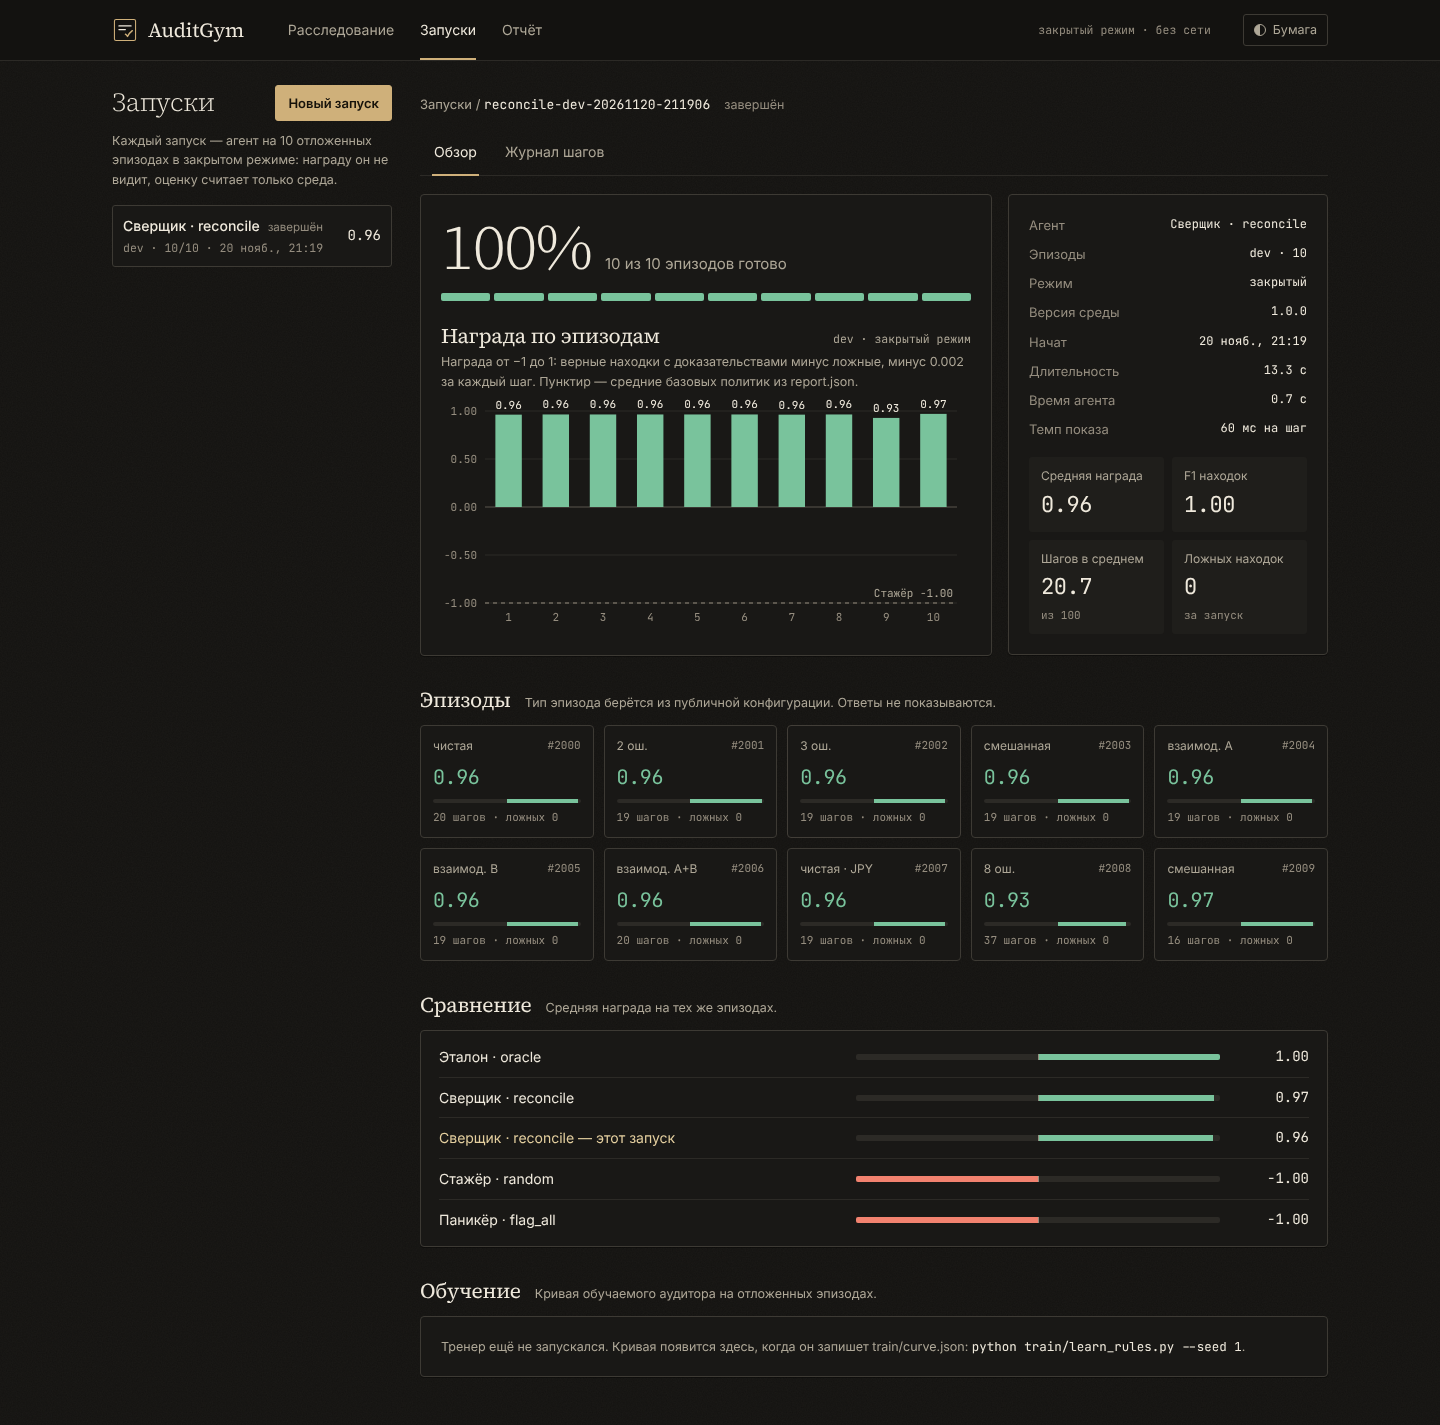
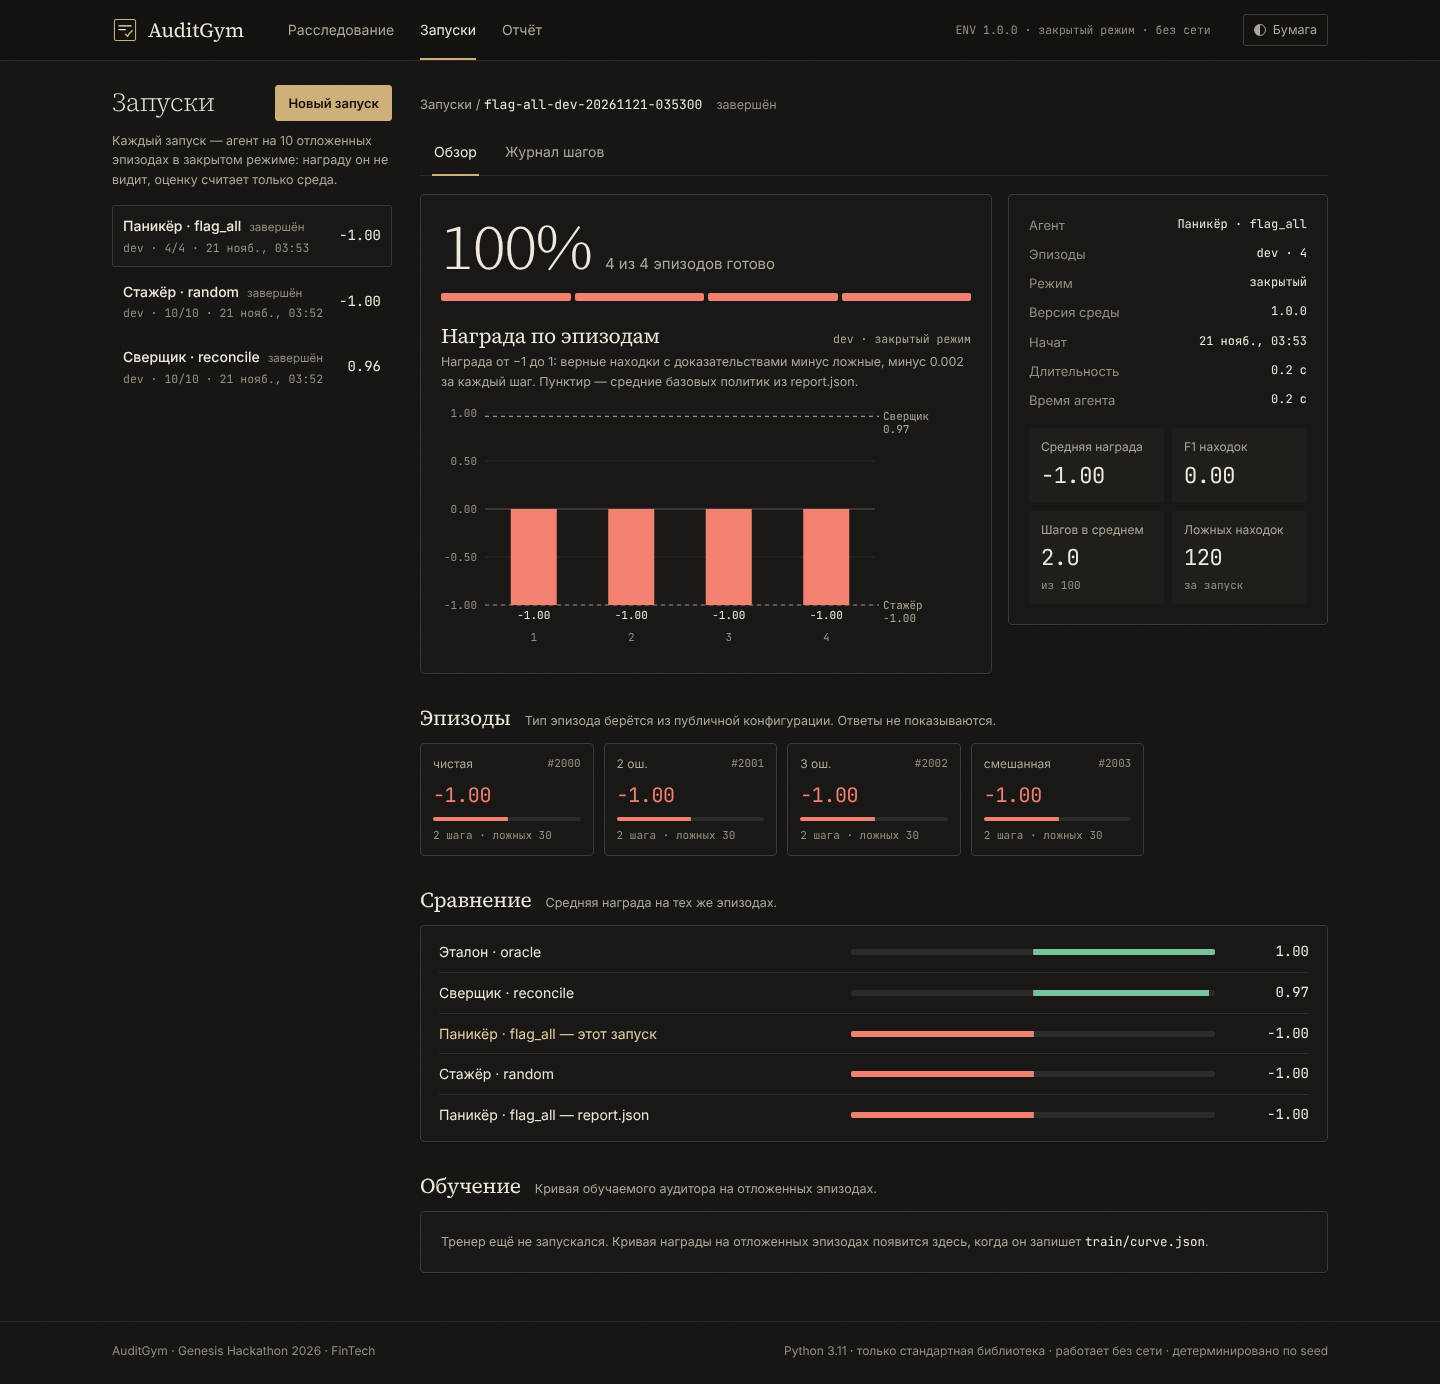
UI polish: runs page chart, comparison, header/footer; home links to Запуски
- Reward chart: reference lines labelled in a right gutter (never over a bar); room under −1 so negative
  values and episode numbers no longer collide.
- Comparison: a built-in policy's own report.json row is marked instead of appearing twice.
- Runs page matches the other pages: same header meta, the site footer, one h1.
- Training slot no longer suggests a command that does not exist yet.
- Episode tiles: zero mark on the −1…1 bar.
- Home «Сводка политик»: link to run any policy or your own agent.

Audit: all three pages, dark and light, 1440 and 390 px: no console errors, no page overflow.

Claude-Session: https://claude.ai/code/session_01RcdgBiJRTbGUBFdvtZ96C7

diff --git a/src/auditgym/ui/static/runs.js b/src/auditgym/ui/static/runs.js
@@ -89,7 +89,7 @@ function render() {
     t.setAttribute("aria-label", `${e.label}, сид ${e.seed}: ${r == null ? "нет оценки" : "награда " + f2(r)}. Открыть журнал`);
     return el("li", {}, t);
   }));
-  const rows = [[agentName(run.agent) + " — этот запуск", done ? s.reward : null, true]].concat(Object.entries(base).map(([k, v]) => [agentName(k), v, false]));
+  const rows = [[agentName(run.agent) + " — этот запуск", done ? s.reward : null, true]].concat(Object.entries(base).map(([k, v]) => [agentName(k) + (k === run.agent ? " — report.json" : ""), v, false]));
   rows.sort((a, b) => (b[1] ?? -9) - (a[1] ?? -9));
   $("d-cmp").replaceChildren(...rows.map(([n, v, me]) => el("tr", { class: me ? "me" : "" }, el("td", {}, n),
     el("td", { class: "bar-c" }, el("span", { class: "zb" }, el("i", { class: v != null && v < 0 ? "neg" : "", style: v == null ? "width:0" : v >= 0 ? `left:50%;width:${v * 50}%` : `left:${50 + v * 50}%;width:${-v * 50}%` }), el("b", {}))),
@@ -105,19 +105,21 @@ function axes(host, W, H, m, ymin, ymax) {
 }
 
 function drawChart(eps) {
-  const host = $("d-chart"), W = Math.max(320, host.clientWidth || 640), H = 230, m = { l: 44, r: 14, t: 12, b: 26 };
+  const host = $("d-chart"), W = Math.max(320, host.clientWidth || 640), H = 248, m = { l: 44, r: W < 480 ? 64 : 96, t: 14, b: 42 };
   const key = run.id + "|" + W + "|" + eps.map((e) => (e.score ? e.score.reward : e.status)).join(",");
   if (key === drawnFor) return;
   drawnFor = key;
   const { s, Y } = axes(host, W, H, m, -1, 1);
   s.setAttribute("aria-label", "Награда по эпизодам: " + eps.map((e) => (e.score ? `${e.label} ${f2(e.score.reward)}` : `${e.label} нет оценки`)).join("; "));
   for (const [k, v] of Object.entries(base)) { if (k === run.agent || !["reconcile", "random"].includes(k)) continue;
-    svg("line", { x1: m.l, x2: W - m.r, y1: Y(v), y2: Y(v), class: "ref" }, s);
-    svg("text", { x: W - m.r - 4, y: Y(v) - 6, "text-anchor": "end", class: "ref-l" }, s).textContent = `${NAMES[k]} ${f2(v)}`; }
+    svg("line", { x1: m.l, x2: W - m.r + 4, y1: Y(v), y2: Y(v), class: "ref" }, s);
+    const lab = svg("text", { x: W - m.r + 8, y: Y(v) + 4, class: "ref-l" }, s);  // in the right gutter, never on a bar
+    lab.append(svg("tspan", { x: W - m.r + 8 }), svg("tspan", { x: W - m.r + 8, dy: 13 }));
+    lab.firstChild.textContent = NAMES[k]; lab.lastChild.textContent = f2(v); }
   const n = Math.max(eps.length, 1), slot = (W - m.l - m.r) / n, bw = Math.min(46, slot * 0.56);
   eps.forEach((e, i) => {
     const x = m.l + slot * i + (slot - bw) / 2;
-    svg("text", { x: x + bw / 2, y: H - 8, "text-anchor": "middle" }, s).textContent = i + 1;
+    svg("text", { x: x + bw / 2, y: H - 6, "text-anchor": "middle" }, s).textContent = i + 1;
     if (!e.score) { if (e.status === "running") svg("rect", { x, y: Y(1), width: bw, height: Y(-1) - Y(1), class: "slot-now" }, s); return; }
     const v = e.score.reward, y0 = Y(0), y1 = Y(v);
     const r = svg("rect", { x, width: bw, y: Math.min(y0, y1), height: Math.max(1, Math.abs(y1 - y0)), class: v >= 0 ? "b-pos" : "b-neg" }, s);
@@ -131,7 +133,7 @@ function drawTraining() {
   const host = $("train-chart");
   host.classList.toggle("hidden", !curve);
   if (!curve || !Array.isArray(curve.points || curve)) {
-    host.replaceChildren(); $("train-note").replaceChildren("Тренер ещё не запускался. Кривая появится здесь, когда он запишет train/curve.json: ", el("code", {}, "python train/learn_rules.py --seed 1"), ".");
+    host.replaceChildren(); $("train-note").replaceChildren("Тренер ещё не запускался. Кривая награды на отложенных эпизодах появится здесь, когда он запишет ", el("code", {}, "train/curve.json"), ".");
     return;
   }
   const pts = (curve.points || curve).map((p) => [p.iteration, p.dev_reward]).filter((p) => p.every(Number.isFinite));

diff --git a/src/auditgym/ui/static/style.css b/src/auditgym/ui/static/style.css
@@ -632,7 +632,7 @@ table.cls td:nth-child(4){white-space:nowrap}
 main.runs{display:grid;grid-template-columns:280px minmax(0,1fr);gap:28px;padding-top:24px;padding-bottom:48px;align-items:start}
 .runs-side{position:sticky;top:84px;display:flex;flex-direction:column;gap:10px;max-height:calc(100vh - 108px)}
 .runs-side-h{display:flex;align-items:center;justify-content:space-between;gap:10px}
-.runs-side-h h2{font-size:26px;font-weight:300}
+.runs-side-h h1{font-size:26px;font-weight:300;line-height:1.2}
 .runs-side>p{margin:0}
 .run-list{list-style:none;margin:6px 0 0;padding:0;overflow:auto;display:flex;flex-direction:column;gap:4px;scrollbar-width:thin;scrollbar-color:var(--line2) transparent}
 .run-i{width:100%;display:grid;grid-template-columns:minmax(0,1fr) auto;gap:2px 10px;text-align:left;background:transparent;border:1px solid transparent;border-radius:var(--r);padding:9px 10px;color:var(--txt);font:inherit;cursor:pointer;transition:background var(--t-fast),border-color var(--t-fast)}
@@ -644,7 +644,7 @@ main.runs{display:grid;grid-template-columns:280px minmax(0,1fr);gap:28px;paddin
 .ri-v{grid-column:2;grid-row:1/span 2;align-self:center;font-size:14px}
 .console{min-width:0}
 .empty{padding:40px;display:flex;flex-direction:column;gap:14px;max-width:760px}
-.empty h1{font-size:40px;font-weight:300;line-height:1.1;letter-spacing:-.02em}
+.empty h2{font-size:40px;font-weight:300;line-height:1.1;letter-spacing:-.02em}
 .empty p.muted{margin:0;max-width:60ch}
 pre.cmd{margin:0;font-family:var(--mono);font-size:12.5px;line-height:1.6;color:var(--txt2);background:var(--deep);border:1px solid var(--line);border-radius:var(--r);padding:10px 12px;white-space:pre-wrap;overflow-wrap:anywhere}
 .con-head{display:flex;align-items:center;gap:14px;flex-wrap:wrap;min-height:40px}
@@ -690,6 +690,7 @@ dl.kv-r dd{margin:0;text-align:right;font-family:var(--mono);font-size:12px;colo
 .et-v{font-size:20px;letter-spacing:-.02em}
 .ep-t.pos .et-v{color:var(--pos)}.ep-t.neg .et-v{color:var(--neg)}
 .et-m,.zb{position:relative;display:block;height:4px;border-radius:2px;background:var(--line);overflow:hidden}
+.et-m::after{content:"";position:absolute;left:50%;top:0;bottom:0;width:1px;background:var(--txt3)}
 .et-m i,.zb i{position:absolute;top:0;bottom:0;background:var(--pos);transition:width var(--t-slow) var(--ease),left var(--t-slow) var(--ease)}
 .ep-t.neg .et-m i,.zb i.neg{background:var(--neg)}
 .et-s{font-family:var(--mono);font-size:11px;color:var(--txt3);min-height:1.2em}
@@ -723,4 +724,4 @@ dialog.run-modal pre.cmd{margin:0 0 16px}
 .err{color:var(--neg);font-size:13px;margin:0 0 12px}
 @media (max-width:1100px){.con-grid{grid-template-columns:1fr}.ep-tiles{grid-template-columns:repeat(3,minmax(0,1fr))}}
 @media (max-width:560px){header.top .wrap{gap:12px;padding:0 14px}nav.main a{padding:8px 7px}.theme-t span{display:none}.brand span{display:none}}
-@media (max-width:860px){main.runs{grid-template-columns:1fr}.runs-side{position:static;max-height:none}.run-list{max-height:260px}.ep-tiles{grid-template-columns:repeat(2,minmax(0,1fr))}.big-n{font-size:48px}ol.trace li{grid-template-columns:40px 100px minmax(0,1fr) 110px}ol.trace .l{display:none}.fgrid{grid-template-columns:1fr}.empty{padding:24px}.empty h1{font-size:30px}}
+@media (max-width:860px){main.runs{grid-template-columns:1fr}.runs-side{position:static;max-height:none}.run-list{max-height:260px}.ep-tiles{grid-template-columns:repeat(2,minmax(0,1fr))}.big-n{font-size:48px}ol.trace li{grid-template-columns:40px 100px minmax(0,1fr) 110px}ol.trace .l{display:none}.fgrid{grid-template-columns:1fr}.empty{padding:24px}.empty h2{font-size:30px}}

diff --git a/src/auditgym/ui/static/runs.html b/src/auditgym/ui/static/runs.html
@@ -16,12 +16,12 @@
   <a class="brand" href="/" aria-label="AuditGym, главная">
     <svg width="26" height="26" viewBox="0 0 32 32" aria-hidden="true"><rect x="3" y="3" width="26" height="26" rx="2" fill="none" stroke="currentColor" stroke-width="1.3"/><path class="bl" d="M8.5 11h15M8.5 15.5h8"/><path d="M16.5 21.2c1.1.6 1.9 1.6 2.6 2.8 1.5-3 3.4-5.3 5.9-7.2" fill="none" stroke="currentColor" stroke-width="1.7" stroke-linecap="round" stroke-linejoin="round"/></svg><span>AuditGym</span></a>
   <nav class="main" aria-label="Разделы"><a href="/">Расследование</a><a href="/runs.html" aria-current="page">Запуски</a><a href="/report.html">Отчёт</a></nav>
-  <span class="meta-top">закрытый режим · без сети</span>
+  <span class="meta-top">ENV 1.0.0 · закрытый режим · без сети</span>
   <button class="theme-t" id="theme" aria-pressed="false" aria-label="Светлая тема «бумага»"><i aria-hidden="true"></i><span>Бумага</span></button>
 </div></header>
 <main id="main" tabindex="-1" class="wrap runs">
   <aside class="runs-side" aria-labelledby="runs-h">
-    <div class="runs-side-h"><h2 id="runs-h">Запуски</h2><button class="btn primary small" id="new-run" aria-haspopup="dialog">Новый запуск</button></div>
+    <div class="runs-side-h"><h1 id="runs-h">Запуски</h1><button class="btn primary small" id="new-run" aria-haspopup="dialog">Новый запуск</button></div>
     <p class="muted small" id="runs-hint">Каждый запуск — агент на 10 отложенных эпизодах в закрытом режиме: награду он не видит, оценку считает только среда.</p>
     <ol class="run-list" id="run-list" aria-label="Список запусков"></ol>
   </aside>
@@ -29,7 +29,7 @@
   <section class="console" aria-live="off">
     <div id="empty" class="card empty hidden">
       <p class="kicker">Ещё нет запусков</p>
-      <h1>Проверьте агента на отложенных эпизодах</h1>
+      <h2>Проверьте агента на отложенных эпизодах</h2>
       <p class="muted">Агент проходит 10 эпизодов, которых он не видел, в закрытом режиме. Каждый шаг виден здесь, а оценка приходит только от среды.</p>
       <div class="row"><button class="btn primary" id="empty-run">Запустить «Сверщика»</button><button class="btn outline" id="empty-new">Свой агент…</button></div>
       <pre class="cmd" id="empty-cmd">python -m auditgym.cli run-agent --policy reconcile --split dev</pre>
@@ -83,6 +83,7 @@
     </div>
   </section>
 </main>
+<footer class="foot-site"><div class="wrap"><span>AuditGym · Genesis Hackathon 2026 · FinTech</span><span>Python 3.11 · только стандартная библиотека · работает без сети · детерминировано по seed</span></div></footer>
 
 <dialog class="modal run-modal" id="dlg" aria-labelledby="dlg-h">
   <p class="kicker">Новый запуск</p>

diff --git a/src/auditgym/ui/static/index.html b/src/auditgym/ui/static/index.html
@@ -81,7 +81,7 @@
   </section>
 
   <section class="board wrap" aria-labelledby="board-h">
-    <div class="sec-h"><h2 id="board-h">Сводка политик</h2><p>Средняя награда на одних и тех же эпизодах, из report.json. Аккуратный агент и угадывающий расходятся на всю шкалу.</p></div>
+    <div class="sec-h"><h2 id="board-h">Сводка политик</h2><p>Средняя награда на одних и тех же эпизодах, из report.json. Аккуратный агент и угадывающий расходятся на всю шкалу. <a href="/runs.html">Запустить любую из них или своего агента →</a></p></div>
     <div class="paper">
       <div class="wp-head"><div class="wp-code">R-2<small>W/P</small></div><div class="wp-title">Четыре политики · награда −1 … +1</div><dl class="wp-meta"><div><dt>Подготовил</dt><dd>python -m auditgym.verify</dd></div><div><dt>Источник</dt><dd>report.json</dd></div></dl></div>
       <div class="scroll"><table class="sched" id="tape"><caption class="sr-only">Средняя награда политик</caption><thead><tr><th scope="col">Политика</th><th scope="col">Код</th><th scope="col" class="num">Средняя</th><th scope="col" class="bar"><span class="sr-only">Шкала</span></th><th scope="col" class="note">Как действует</th></tr></thead><tbody></tbody></table></div>
